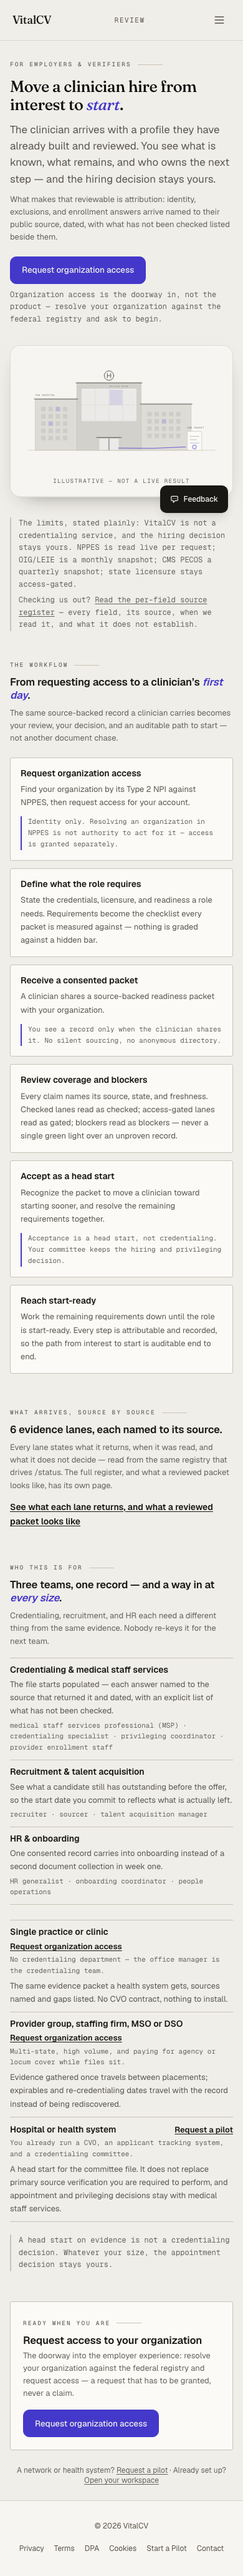
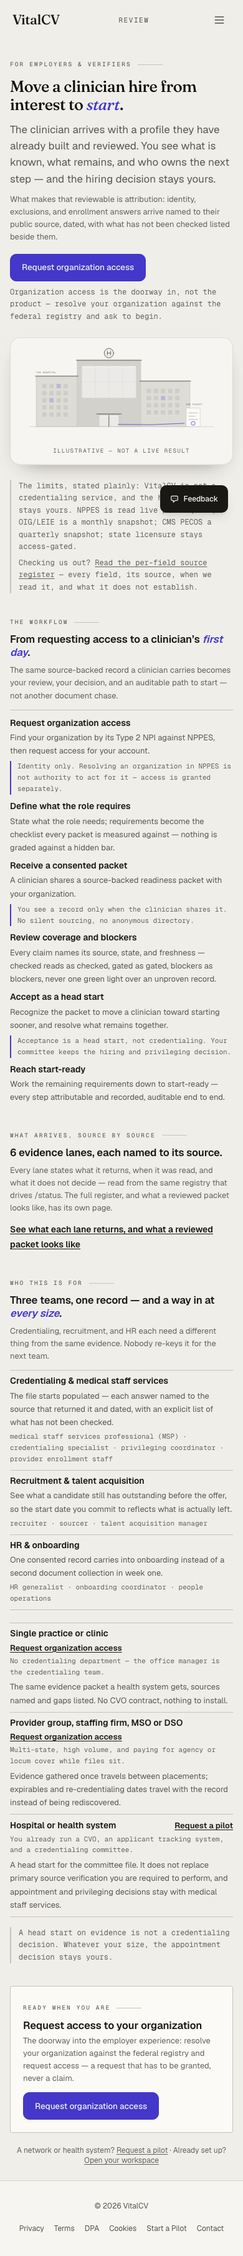
docs(employers): canonical evidence regenerated from production at d9e155d28
The after-set is now captured from the production origin at the exact SHA
carrying the full density program (REVISION 2 → #1091 → #1093 → #1095):
/employers 2,796px desktop / 3,608px mobile — the audit's 2,800px target
reached. Interim evidence-artifact-density/ and evidence-margin-rhythm/
sets removed per the #1089 dedup pattern; git history preserves them.
Founder decisions on record: FOUNDER EVIDENCE REGEN DECISION: GO and
FOUNDER CANONICAL EVIDENCE MERGE DECISION: GO.

Changed region(s): [[0.0308, 0.0, 0.9538, 0.9933]]

diff --git a/docs/design/employers-restructure/README.md b/docs/design/employers-restructure/README.md
@@ -34,22 +34,20 @@ six-card workflow section (~590px) and the hero artifact stage (~290px) —
 both part of the approved visual architecture, so tightening either is a
 founder decision, not one this revision takes silently.
 
-## Measured result (branch prod build, `next start`)
+## Measured result (canonical set: captured from PRODUCTION at `d9e155d28`)
 
 | Route | 1440 height | 390 height | overflow | console errors |
 |---|---|---|---|---|
-| /employers (before, prod) | 5,743px | 7,402px | none | 0 |
-| /employers (after, revision 2) | **3,145px (−45%)** | **4,118px (−44%)** | none | 0 |
-| /employers (after, workflow density pass) | **3,029px (−47%)** | **3,768px (−49%)** | none | 0 |
-| /employers/request-access (new) | 1,054px | 1,030px | none | 0 |
-| /employers/how-it-works (new) | 3,390px | 3,578px | none | 0 |
+| /employers (before, prod `2e7d7fb`) | 5,743px | 7,402px | none | 0 |
+| /employers (after: REVISION 2 + #1091 workflow + #1093 artifact + #1095 margins) | **2,796px (−51%)** | **3,608px (−51%)** | none | 0 |
+| /employers/request-access | 1,054px | 1,030px | none | 0 |
+| /employers/how-it-works | 3,390px | 3,578px | none | 0 |
 
-The workflow density pass (#1091) de-chromed the six workflow cards into
-borderless grid cells; its heights are transcribed from
-`evidence-workflow-density/metrics-after.json` (branch prod build at the merged
-head). The audit's ≤2,800px target is still not fully reached; the remaining
-mass is the hero artifact stage (~290px) — approved visual architecture, so
-tightening it is a founder decision, not made silently.
+**The audit's ≤2,800px target is reached.** The path: REVISION 2 hierarchy
+(3,145px) → workflow de-chrome #1091 (3,029px) → dense hero artifact #1093
+(2,914px) → margin rhythm #1095 (2,796px). Interim per-wave capture sets were
+removed after each landed (git history preserves them); this canonical after-set
+is captured from the production origin at the exact deployed SHA.
 
 ## Capture methodology
 
